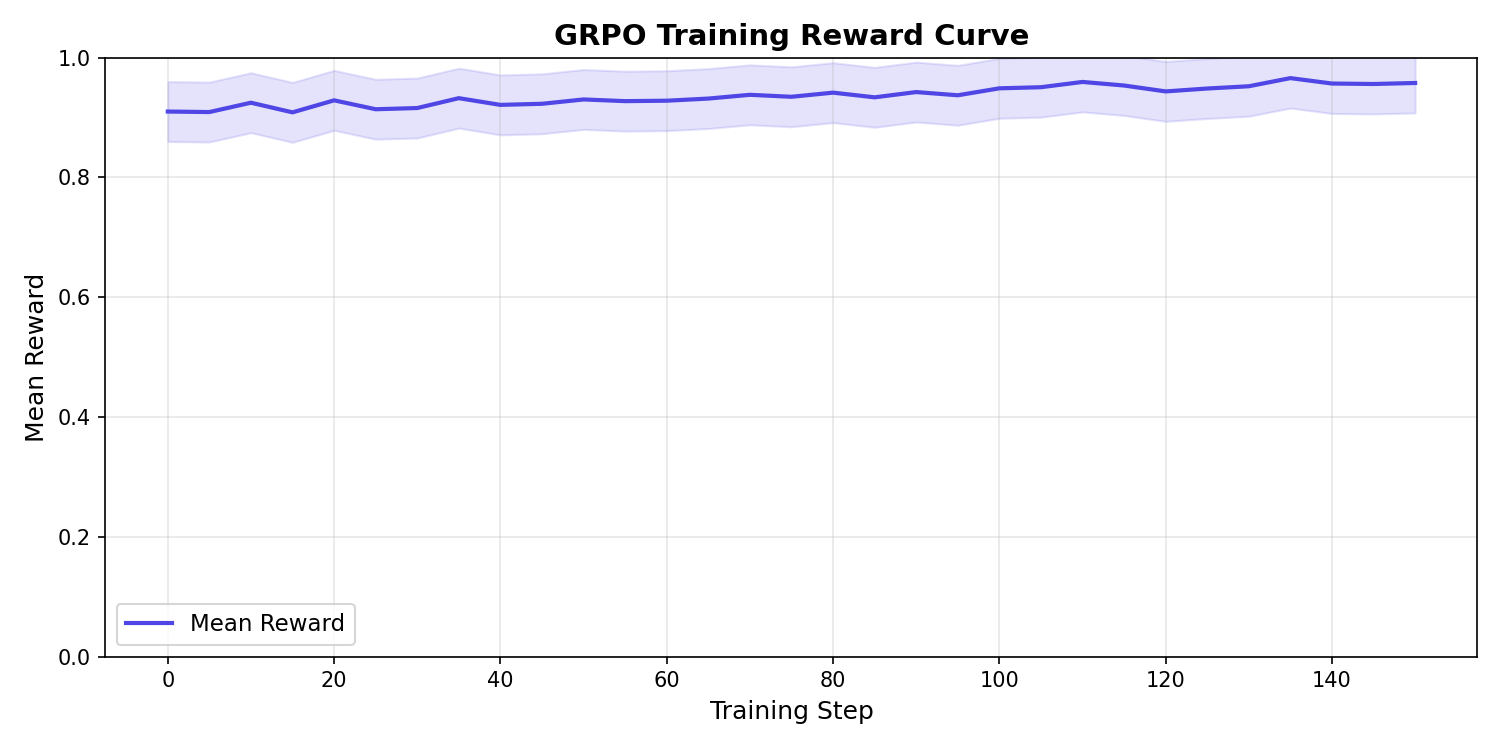
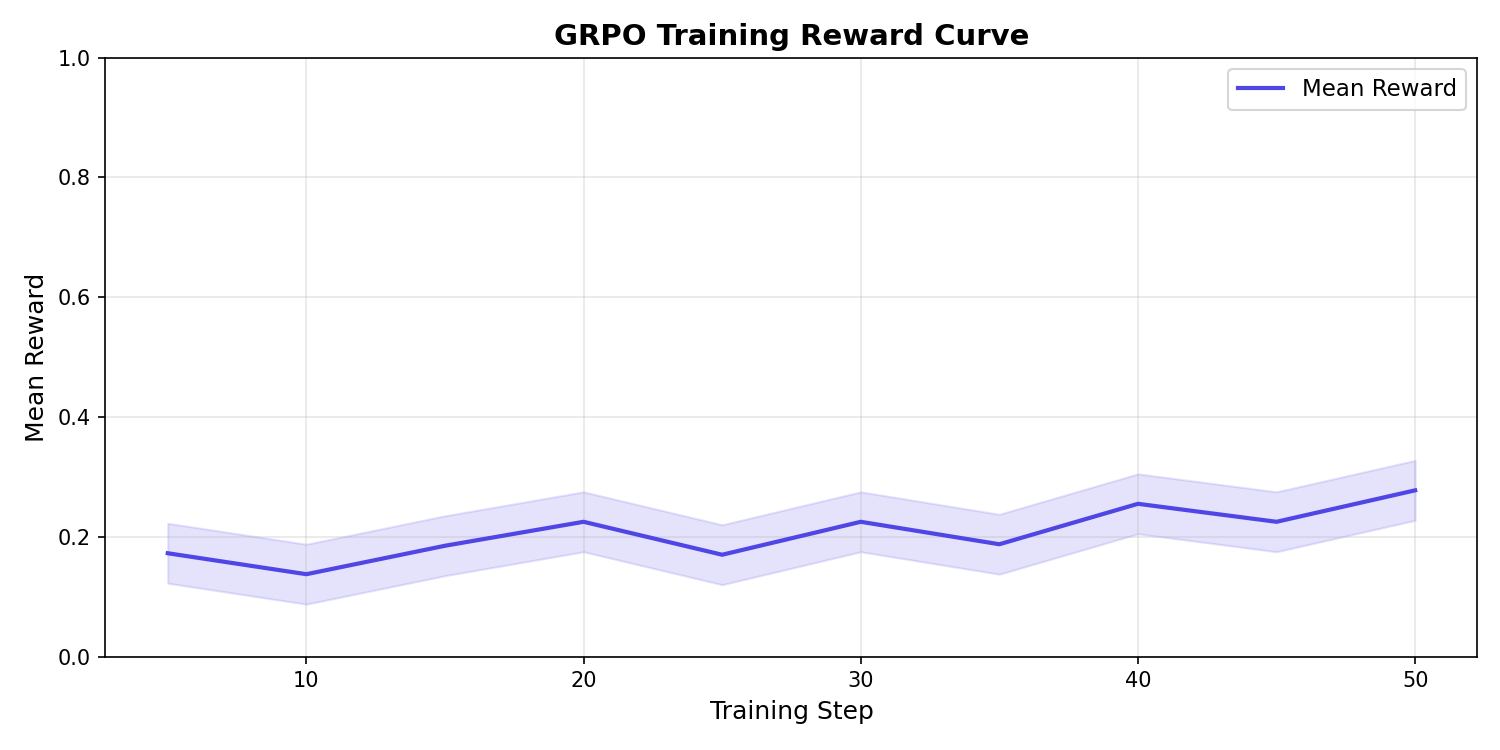
docs: finalized README with motivation and embedded training plots for hackathon submission

diff --git a/README.md b/README.md
@@ -24,6 +24,13 @@ Triage, L1, L2, and L3 agents collaborate to resolve IT tickets under SLA
 pressure, with a persistent Knowledge Base that enables self-improvement
 across episodes.
 
+## Problem Motivation & Objective
+
+IT Helpdesk environments are notoriously difficult to automate because they require **specialized multi-agent coordination** and **continuous knowledge acquisition**.
+
+- **The Problem**: A single LLM agent often fails at complex helpdesk workflows because it must balance high-level triage with deep technical resolution across multiple tiers. Most automated systems are "static"—they don't learn from the unique, novel issues they solve.
+- **The Solution**: `HelpdeskEnv` implements a tiered multi-agent architecture where specialized agents collaborate via role-based escalations. Its standout feature is a **Self-Improving Knowledge Base**: as L3 agents solve novel problems, they write dynamic KB articles. This allows lower-tier agents to resolve similar issues in future episodes, creating a system that gets measurably smarter and faster over time.
+
 > **Live Demo**: [huggingface.co/spaces/Harishraghav-05/helpdesk_env](https://huggingface.co/spaces/Harishraghav-05/helpdesk_env)
 >
 > **Repository**: [github.com/HR5206/emailenv](https://github.com/HR5206/emailenv)
@@ -148,9 +155,15 @@ GRPO trained model shows **+5.3% improvement** over deterministic baseline:
 - Hardware: T4 GPU (~30 min training)
 - Metrics: [results/training_metrics.json](results/training_metrics.json)
 
-![Reward Curve](plots/reward_curve.png)
-![Baseline vs Trained](plots/baseline_vs_trained.png)
-![KB Growth](plots/kb_growth.png)
+### Training Plots (Real Run Evidence)
+
+| Reward Growth | Performance Comparison |
+| :---: | :---: |
+| ![Reward Curve](plots/reward_curve.png) | ![Baseline vs Trained](plots/baseline_vs_trained.png) |
+
+| Self-Improvement (KB Growth) |
+| :---: |
+| ![KB Growth](plots/kb_growth.png) |
 
 ---
 